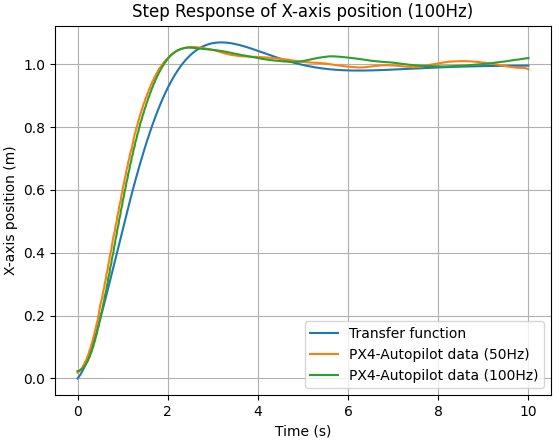
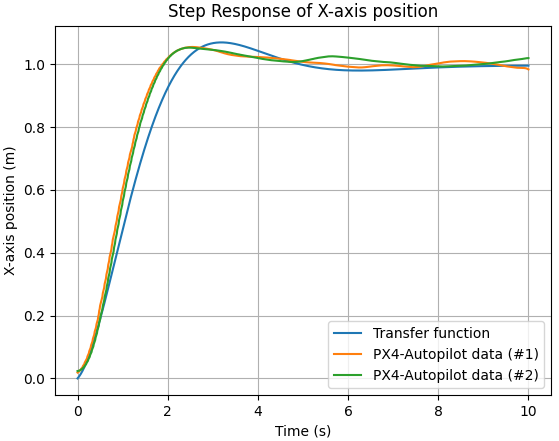
Update step reponse figure

Changed region(s): [[0.5474, 0.737, 0.9732, 0.8844], [0.2433, 0.0, 0.8515, 0.059]]

diff --git a/px4_sitl_scripts/regulation.py b/px4_sitl_scripts/regulation.py
@@ -45,9 +45,9 @@ plt.figure()
 plt.plot(t, y)
 plt.plot(t1, data1)
 plt.plot(t2, data2)
-plt.title('Step Response of X-axis position (100Hz)')
+plt.title('Step Response of X-axis position')
 plt.xlabel('Time (s)')
 plt.ylabel('X-axis position (m)')
-plt.legend(['Transfer function', 'PX4-Autopilot data (50Hz)', 'PX4-Autopilot data (100Hz)'])
+plt.legend(['Transfer function', 'PX4-Autopilot data (#1)', 'PX4-Autopilot data (#2)'])
 plt.grid()
 plt.show()
